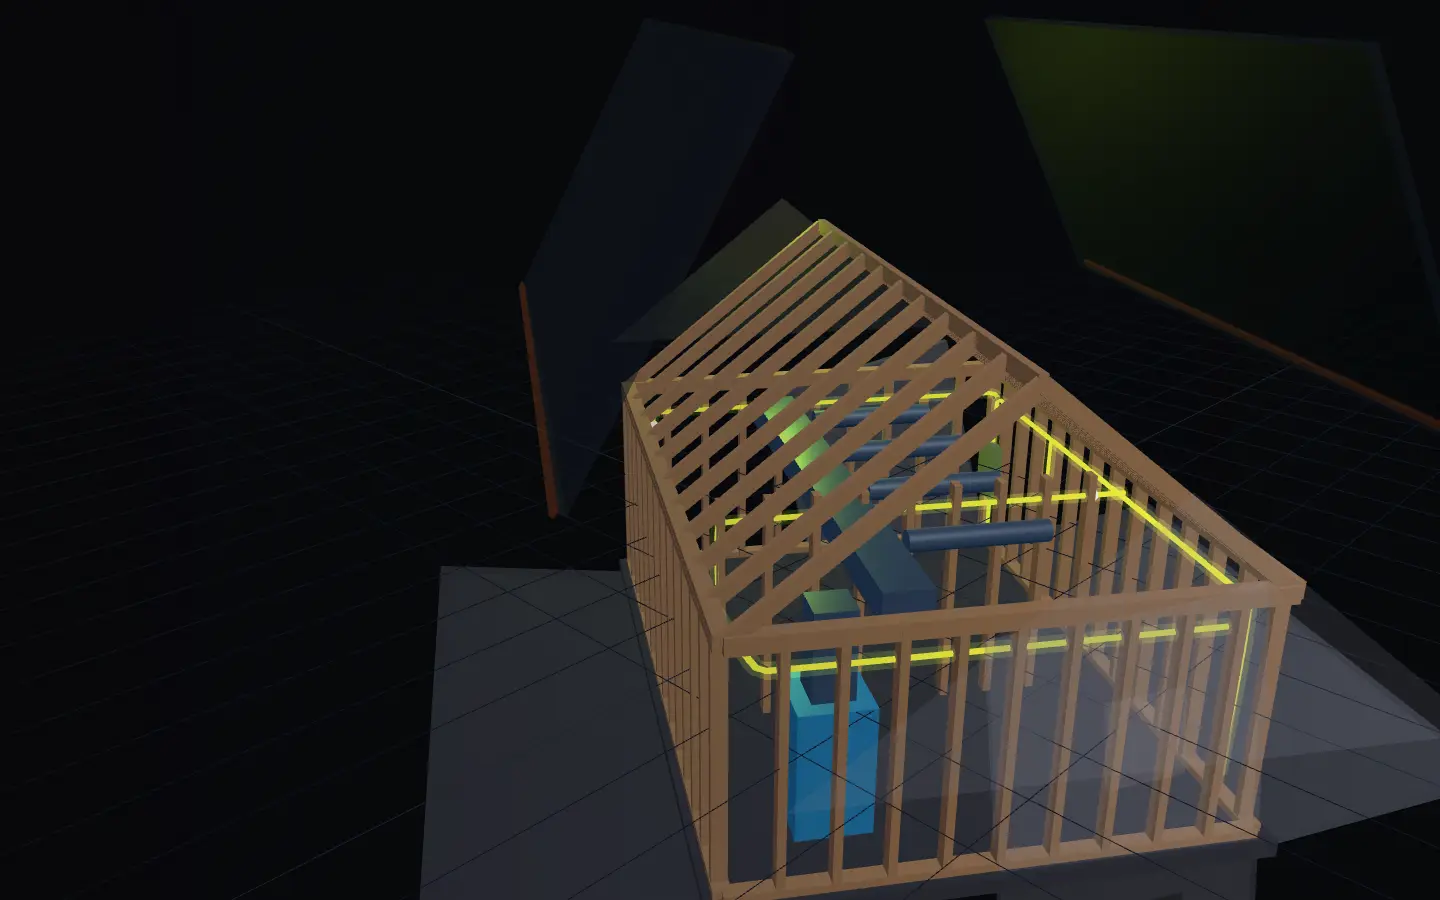
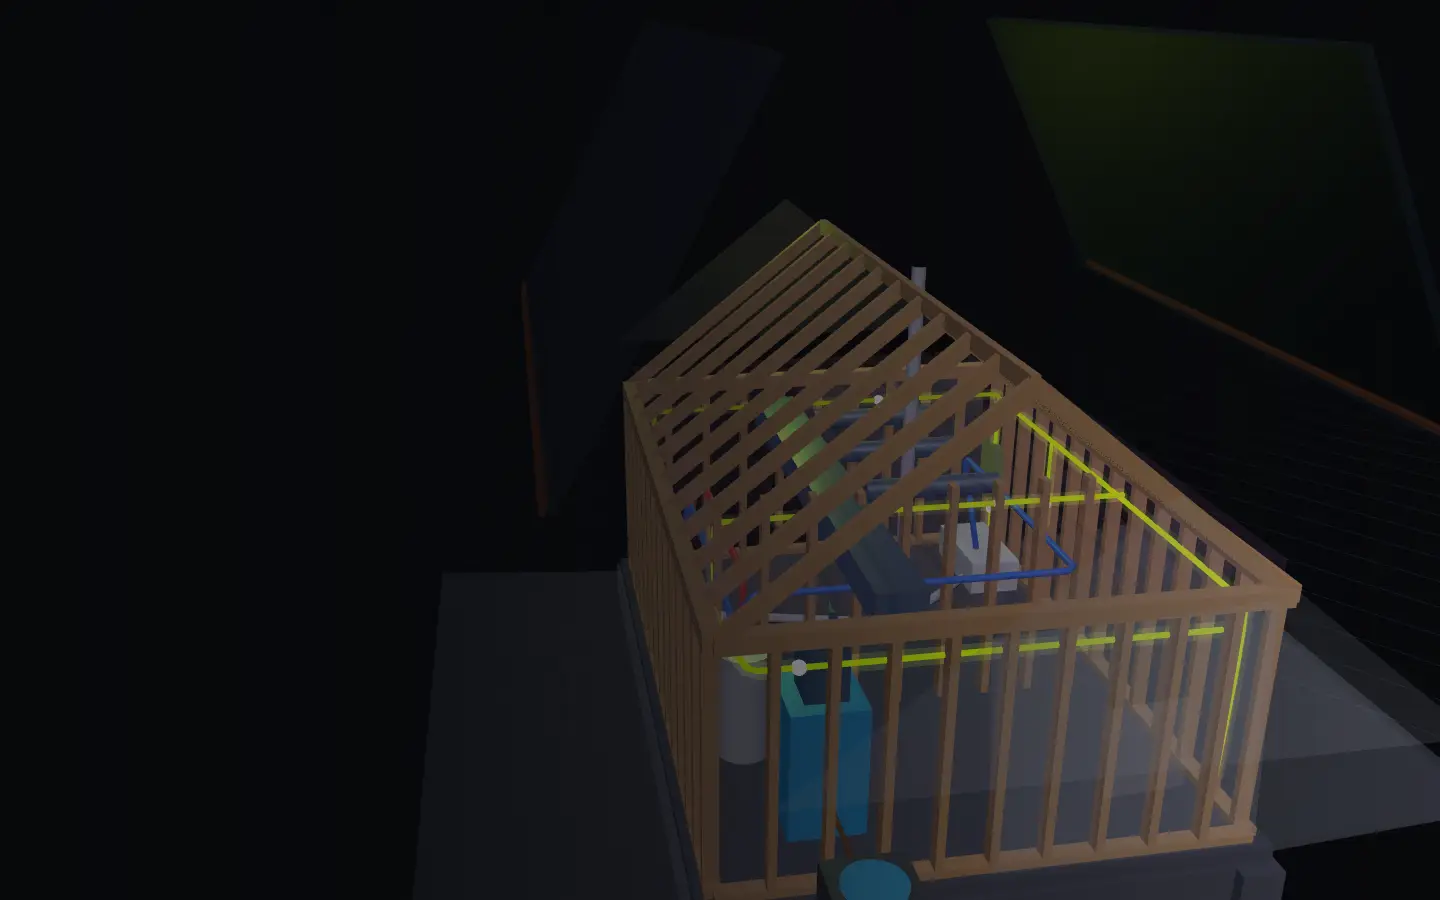
Re-render share image with the Google Voice number; render script accepts CHROME path

diff --git a/scripts/render-images.js b/scripts/render-images.js
@@ -1,7 +1,7 @@
 // Render the 3D hero (no overlay) into public/hero-fallback.webp (1440x900) and public/og-image.jpg (1200x630).
 import puppeteer from 'puppeteer-core';
 const url = process.argv[2] || 'http://localhost:4173/';
-const b = await puppeteer.launch({ executablePath: '/usr/bin/google-chrome', headless: 'new',
+const b = await puppeteer.launch({ executablePath: process.env.CHROME || '/usr/bin/google-chrome', headless: 'new',
   args: ['--no-sandbox', '--use-gl=angle', '--use-angle=swiftshader', '--enable-unsafe-swiftshader', '--ignore-gpu-blocklist'] });
 const p = await b.newPage();
 const shoot = async (w, h, opts, css = '') => {
